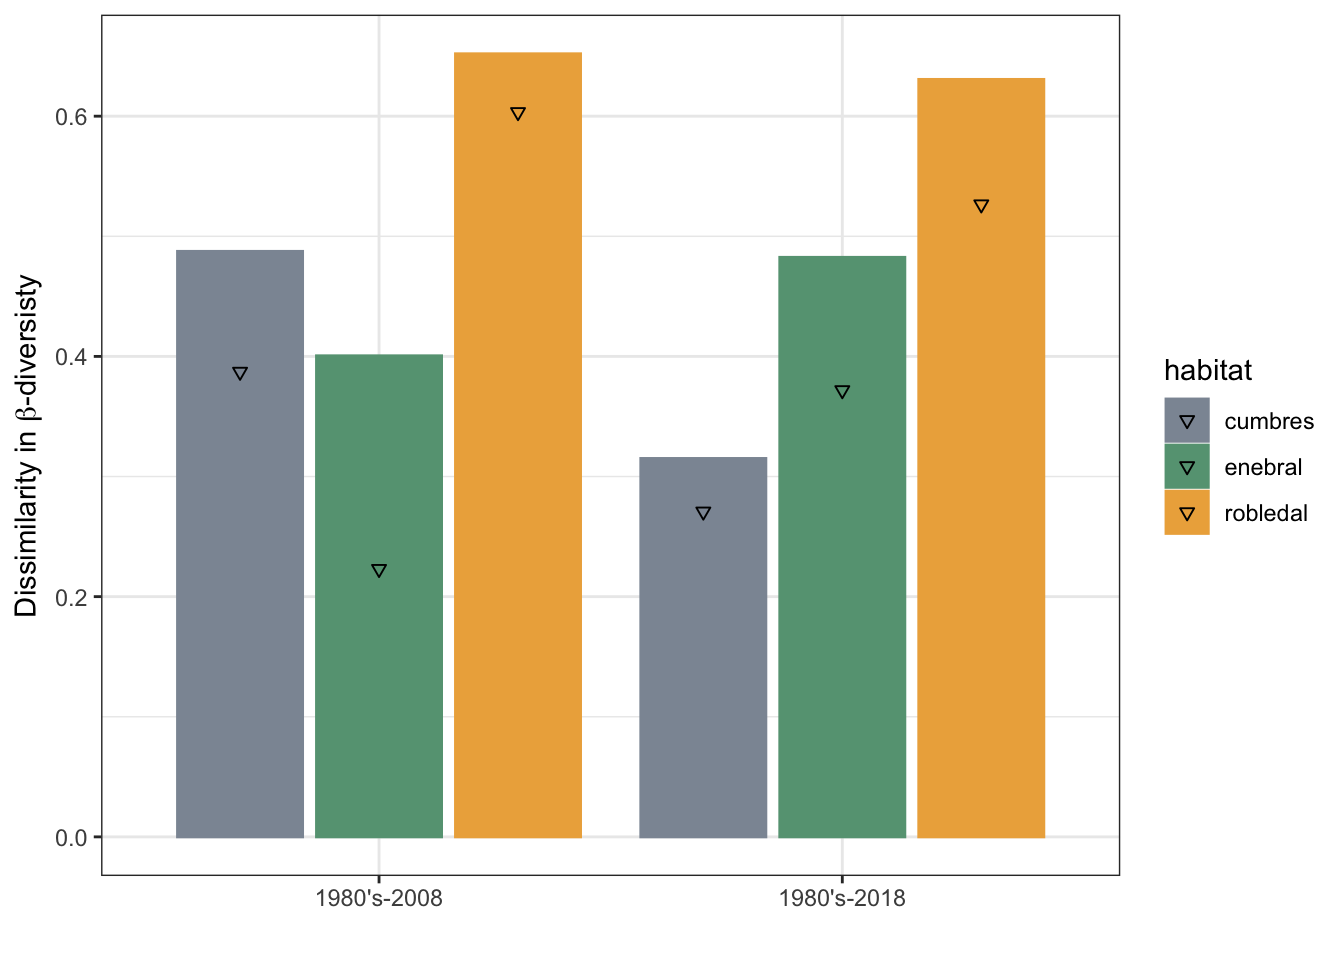
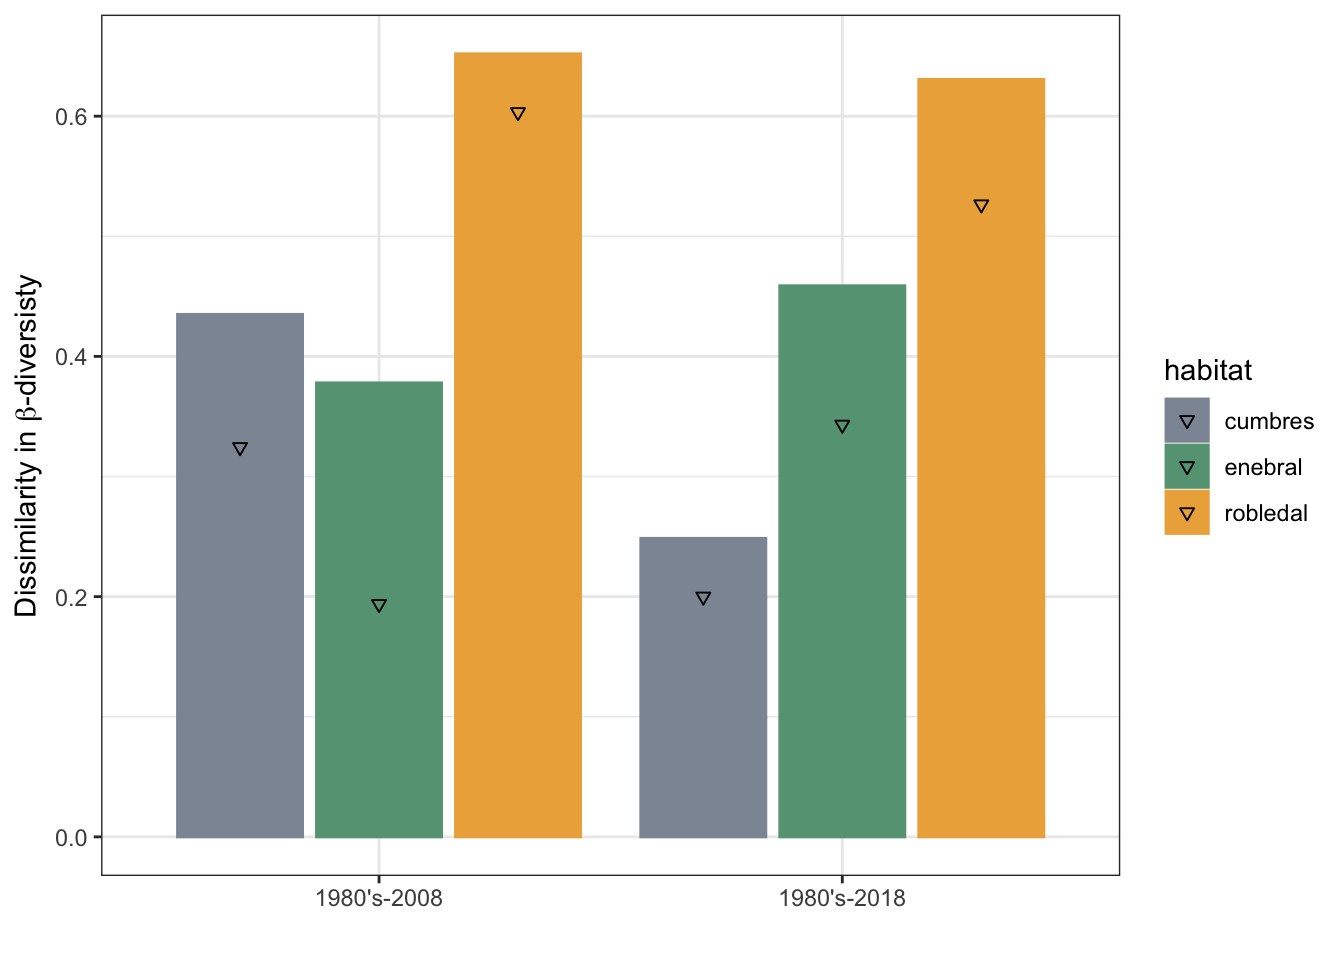
Build site.

diff --git a/docs/temporal-beta-diversity.html b/docs/temporal-beta-diversity.html
@@ -390,7 +390,7 @@ div.tocify {
 <div class="tab-content">
 <div id="summary" class="tab-pane fade in active">
 <p>
-<strong>Last updated:</strong> 2021-05-10
+<strong>Last updated:</strong> 2021-05-20
 </p>
 <p>
 <strong>Checks:</strong> <span class="glyphicon glyphicon-ok text-success" aria-hidden="true"></span> 7 <span class="glyphicon glyphicon-exclamation-sign text-danger" aria-hidden="true"></span> 0
@@ -481,16 +481,16 @@ This reproducible <a href="http://rmarkdown.rstudio.com">R Markdown</a> analysis
 <div class="panel panel-default">
 <div class="panel-heading">
 <p class="panel-title">
-<a data-toggle="collapse" data-parent="#workflowr-checks" href="#strongRepositoryversionstrongahrefhttpsgithubcomajpelubooksndispersantestree4aacd6980ad1a1867e79e0b5ccf68956dcf8c668targetblank4aacd69a"> <span class="glyphicon glyphicon-ok text-success" aria-hidden="true"></span> <strong>Repository version:</strong> <a href="https://github.com/ajpelu/booksn_dispersantes/tree/4aacd6980ad1a1867e79e0b5ccf68956dcf8c668" target="_blank">4aacd69</a> </a>
+<a data-toggle="collapse" data-parent="#workflowr-checks" href="#strongRepositoryversionstrongahrefhttpsgithubcomajpelubooksndispersantestree8998feaaf6e685044603475290b15b64786a7301targetblank8998feaa"> <span class="glyphicon glyphicon-ok text-success" aria-hidden="true"></span> <strong>Repository version:</strong> <a href="https://github.com/ajpelu/booksn_dispersantes/tree/8998feaaf6e685044603475290b15b64786a7301" target="_blank">8998fea</a> </a>
 </p>
 </div>
[2 lines of base64/hex data omitted]
 <div class="panel-body">
 <p>
 Great! You are using Git for version control. Tracking code development and connecting the code version to the results is critical for reproducibility.
 </p>
 <p>
-The results in this page were generated with repository version <a href="https://github.com/ajpelu/booksn_dispersantes/tree/4aacd6980ad1a1867e79e0b5ccf68956dcf8c668" target="_blank">4aacd69</a>. See the <em>Past versions</em> tab to see a history of the changes made to the R Markdown and HTML files.
+The results in this page were generated with repository version <a href="https://github.com/ajpelu/booksn_dispersantes/tree/8998feaaf6e685044603475290b15b64786a7301" target="_blank">8998fea</a>. See the <em>Past versions</em> tab to see a history of the changes made to the R Markdown and HTML files.
 </p>
 <p>
 Note that you need to be careful to ensure that all relevant files for the analysis have been committed to Git prior to generating the results (you can use <code>wflow_publish</code> or <code>wflow_git_commit</code>). workflowr only checks the R Markdown file, but you know if there are other scripts or data files that it depends on. Below is the status of the Git repository when the results were generated:
@@ -501,16 +501,14 @@ Ignored files:
     Ignored:    .Rproj.user/
     Ignored:    data/.DS_Store
 
-Untracked files:
-    Untracked:  data/passerine_ab.csv
-    Untracked:  data/passerine_abbrev.csv
-
 Unstaged changes:
-    Deleted:    analysis/temporal-beta-diveristy.Rmd
-    Modified:   code/computeTBI.R
-    Modified:   data/birds.csv
-    Deleted:    data/data_raw/~$Aves_SN_meses_reproduccion.xlsx
-    Modified:   data/passerine.csv
+    Modified:   output/betadiversity/betapart.csv
+    Modified:   output/betadiversity/plot_betadiversity.pdf
+    Modified:   output/betadiversity/tbi.csv
+    Modified:   output/compose_plot.pdf
+    Modified:   output/diversity/alfa_diversity.csv
+    Modified:   output/diversity/diversity_habitat.pdf
+    Modified:   output/diversity/richness.csv
 
 </code></pre>
 <p>
@@ -549,6 +547,23 @@ Message
 </tr>
 </thead>
 <tbody>
+<tr>
+<td>
+html
+</td>
+<td>
+<a href="https://rawcdn.githack.com/ajpelu/booksn_dispersantes/c5e657181e57178432a9ea73a2ccd4104651ddc5/docs/temporal-beta-diversity.html" target="_blank">c5e6571</a>
+</td>
+<td>
+Antonio J Perez-Luque
+</td>
+<td>
+2021-05-10
+</td>
+<td>
+Build site.
+</td>
+</tr>
 <tr>
 <td>
 html
@@ -752,7 +767,7 @@ write_csv(d, file=here::here(&quot;output/betadiversity/tbi.csv&quot;))
 
 DT::datatable(d) %&gt;% DT::formatRound(columns = c(&quot;losses&quot;, &quot;gains&quot;, &quot;D&quot;), digits=3)</code></pre>
 <div id="htmlwidget-eb7a9ebb91f909543456" style="width:100%;height:auto;" class="datatables html-widget"></div>
-<script type="application/json" data-for="htmlwidget-eb7a9ebb91f909543456">{"x":{"filter":"none","data":[["1","2","3","4","5","6"],["cumbres","cumbres","enebral","enebral","robledal","robledal"],[1982,1982,1984,1984,1981,1981],["1980's-2008","1980's-2018","1980's-2008","1980's-2018","1980's-2008","1980's-2018"],[0.387186629526462,0.270796460176991,0.223002958579882,0.371849208119563,0.603352739005401,0.526535326958866],[0.100278551532033,0.0442477876106195,0.177514792899408,0.110640196297122,0.0486077014799748,0.104087787974074],[0.487465181058496,0.315044247787611,0.40051775147929,0.482489404416685,0.651960440485376,0.63062311493294],["-  ","-  ","-  ","-  ","-  ","-  "]],"container":"<table class=\"display\">\n  <thead>\n    <tr>\n      <th> <\/th>\n      <th>habitat<\/th>\n      <th>year_t0<\/th>\n      <th>pair<\/th>\n      <th>losses<\/th>\n      <th>gains<\/th>\n      <th>D<\/th>\n      <th>Change<\/th>\n    <\/tr>\n  <\/thead>\n<\/table>","options":{"columnDefs":[{"targets":4,"render":"function(data, type, row, meta) {\n    return type !== 'display' ? data : DTWidget.formatRound(data, 3, 3, \",\", \".\");\n  }"},{"targets":5,"render":"function(data, type, row, meta) {\n    return type !== 'display' ? data : DTWidget.formatRound(data, 3, 3, \",\", \".\");\n  }"},{"targets":6,"render":"function(data, type, row, meta) {\n    return type !== 'display' ? data : DTWidget.formatRound(data, 3, 3, \",\", \".\");\n  }"},{"className":"dt-right","targets":[2,4,5,6]},{"orderable":false,"targets":0}],"order":[],"autoWidth":false,"orderClasses":false}},"evals":["options.columnDefs.0.render","options.columnDefs.1.render","options.columnDefs.2.render"],"jsHooks":[]}</script>
+<script type="application/json" data-for="htmlwidget-eb7a9ebb91f909543456">{"x":{"filter":"none","data":[["1","2","3","4","5","6"],["cumbres","cumbres","enebral","enebral","robledal","robledal"],[1982,1982,1984,1984,1981,1981],["1980's-2008","1980's-2018","1980's-2008","1980's-2018","1980's-2008","1980's-2018"],[0.32446264073695,0.2,0.193783576362241,0.343130394215069,0.603352739005401,0.526535326958866],[0.110542476970317,0.0485436893203883,0.184190330007675,0.115698623746209,0.0486077014799748,0.104087787974074],[0.435005117707267,0.248543689320388,0.377973906369916,0.458829017961278,0.651960440485376,0.63062311493294],["-  ","-  ","-  ","-  ","-  ","-  "]],"container":"<table class=\"display\">\n  <thead>\n    <tr>\n      <th> <\/th>\n      <th>habitat<\/th>\n      <th>year_t0<\/th>\n      <th>pair<\/th>\n      <th>losses<\/th>\n      <th>gains<\/th>\n      <th>D<\/th>\n      <th>Change<\/th>\n    <\/tr>\n  <\/thead>\n<\/table>","options":{"columnDefs":[{"targets":4,"render":"function(data, type, row, meta) {\n    return type !== 'display' ? data : DTWidget.formatRound(data, 3, 3, \",\", \".\");\n  }"},{"targets":5,"render":"function(data, type, row, meta) {\n    return type !== 'display' ? data : DTWidget.formatRound(data, 3, 3, \",\", \".\");\n  }"},{"targets":6,"render":"function(data, type, row, meta) {\n    return type !== 'display' ? data : DTWidget.formatRound(data, 3, 3, \",\", \".\");\n  }"},{"className":"dt-right","targets":[2,4,5,6]},{"orderable":false,"targets":0}],"order":[],"autoWidth":false,"orderClasses":false}},"evals":["options.columnDefs.0.render","options.columnDefs.1.render","options.columnDefs.2.render"],"jsHooks":[]}</script>
 <pre class="r"><code>cols &lt;- c(&quot;cumbres&quot; = &quot;#8d96a3&quot;, &quot;enebral&quot; = &quot;#66a182&quot;, &quot;robledal&quot; = &quot;#edae49&quot;)
 plot_BD &lt;- d %&gt;% 
   ggplot(aes(x=pair, fill=habitat, colour=habitat)) +
@@ -831,7 +846,7 @@ write.csv(bd, file=here::here(&quot;output/betadiversity/betapart.csv&quot;))
 
 DT::datatable(bd) %&gt;% DT::formatRound(&quot;value&quot;, digits=3)</code></pre>
 <div id="htmlwidget-f85803957b95e44db276" style="width:100%;height:auto;" class="datatables html-widget"></div>
-<script type="application/json" data-for="htmlwidget-f85803957b95e44db276">{"x":{"filter":"none","data":[["1","2","3","4","5","6","7","8","9"],["beta.BRAY.BAL","beta.BRAY.BAL","beta.BRAY.BAL","beta.BRAY.GRA","beta.BRAY.GRA","beta.BRAY.GRA","beta.BRAY","beta.BRAY","beta.BRAY"],["robledal","enebral","cumbres","robledal","enebral","cumbres","robledal","enebral","cumbres"],[0.609817399152954,0.682402136928801,0.454078455790785,0.188631824024058,0.0957889685067663,0.286336051981236,0.798449223177012,0.778191105435567,0.740414507772021]],"container":"<table class=\"display\">\n  <thead>\n    <tr>\n      <th> <\/th>\n      <th>variable<\/th>\n      <th>habitat<\/th>\n      <th>value<\/th>\n    <\/tr>\n  <\/thead>\n<\/table>","options":{"columnDefs":[{"targets":3,"render":"function(data, type, row, meta) {\n    return type !== 'display' ? data : DTWidget.formatRound(data, 3, 3, \",\", \".\");\n  }"},{"className":"dt-right","targets":3},{"orderable":false,"targets":0}],"order":[],"autoWidth":false,"orderClasses":false}},"evals":["options.columnDefs.0.render"],"jsHooks":[]}</script>
+<script type="application/json" data-for="htmlwidget-f85803957b95e44db276">{"x":{"filter":"none","data":[["1","2","3","4","5","6","7","8","9"],["beta.BRAY.BAL","beta.BRAY.BAL","beta.BRAY.BAL","beta.BRAY.GRA","beta.BRAY.GRA","beta.BRAY.GRA","beta.BRAY","beta.BRAY","beta.BRAY"],["robledal","enebral","cumbres","robledal","enebral","cumbres","robledal","enebral","cumbres"],[0.609817399152954,0.68041022687274,0.433715485225254,0.188631824024058,0.0948460203847673,0.297754652600167,0.798449223177012,0.775256247257507,0.731470137825421]],"container":"<table class=\"display\">\n  <thead>\n    <tr>\n      <th> <\/th>\n      <th>variable<\/th>\n      <th>habitat<\/th>\n      <th>value<\/th>\n    <\/tr>\n  <\/thead>\n<\/table>","options":{"columnDefs":[{"targets":3,"render":"function(data, type, row, meta) {\n    return type !== 'display' ? data : DTWidget.formatRound(data, 3, 3, \",\", \".\");\n  }"},{"className":"dt-right","targets":3},{"orderable":false,"targets":0}],"order":[],"autoWidth":false,"orderClasses":false}},"evals":["options.columnDefs.0.render"],"jsHooks":[]}</script>
 <br>
 <p>
 <button type="button" class="btn btn-default btn-workflowr btn-workflowr-sessioninfo" data-toggle="collapse" data-target="#workflowr-sessioninfo" style="display: block;">
